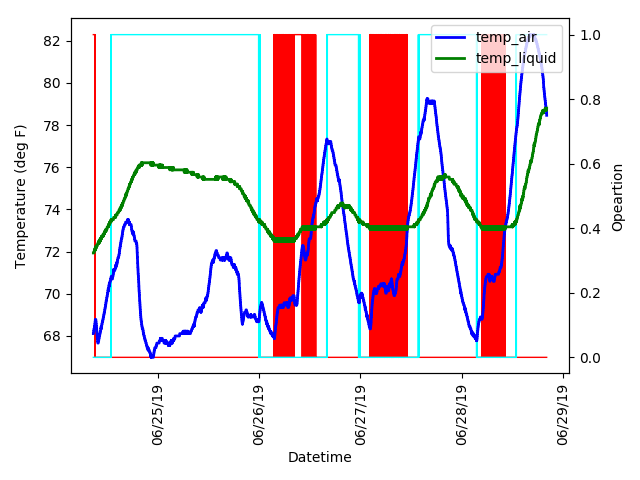
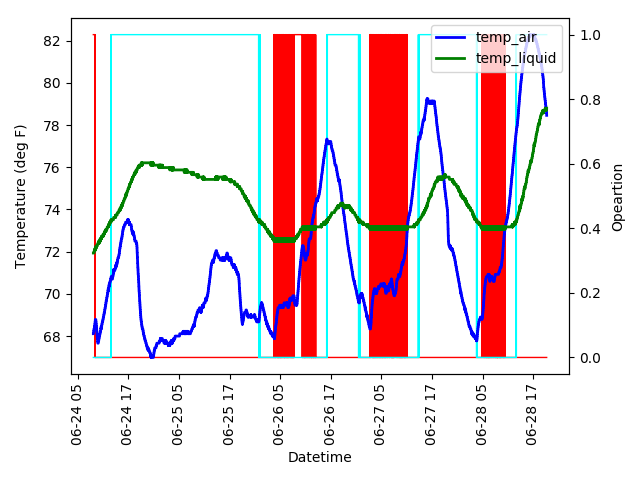
added a gui

diff --git a/gui.py b/gui.py
@@ -1,0 +1,144 @@
+from Tkinter import *
+import ttk
+import matplotlib
+from matplotlib.backends.backend_tkagg import FigureCanvasTkAgg
+from matplotlib.figure import Figure
+import plot_beer_data
+
+def save_inputs():
+	# Run parameters
+	file_name=entry_file_name.get()
+	time_inc=float(entry_time_inc.get())
+	brew_id=int(float(entry_brew_id.get()))
+	database_flag=database_state.get()
+	print str(file_name)+"\n"+str(time_inc)+"\n"+str(brew_id)+"\n"+str(database_flag)
+	return file_name, time_inc, brew_id, database_flag
+def run_main():
+	save_inputs()
+	lbl_status_r.config(fg="green",text="Running")
+	
+	# Disable the inputs while running.
+	entry_file_name.config(state="disabled")
+	entry_time_inc.config(state="disabled")
+	entry_brew_id.config(state="disabled")
+	chk_database.config(state="disabled")
+	
+	# Temperature settings
+	float(entry_temp_min.get())
+	float(entry_temp_min_tol.get())
+	float(entry_temp_max.get())
+	float(entry_temp_max_tol.get())
+	
+	print "doing some stuff..."
+def update_plot():
+	fig=plot_beer_data.csv_plot(entry_file_name.get())
+	plot_canvas=FigureCanvasTkAgg(fig, window)
+	plot_canvas.draw()
+	plot_canvas.get_tk_widget().grid(row=520,column=0,columnspan=2)
+	print("plot refreshed")
+	
+def stop_main():
+	lbl_status_r.config(fg="blue",text="Paused")
+	
+	# Enable the inputs after stoppings.
+	entry_file_name.config(state="normal")
+	entry_time_inc.config(state="normal")
+	entry_brew_id.config(state="normal")
+	chk_database.config(state="normal")
+	print "Stopping the program."
+
+# Create root object
+window=Tk()
+window.title("beerCode")
+Grid.rowconfigure(window, 0, weight=0)
+Grid.columnconfigure(window, 0, weight=1)
+
+# Header stuff and run info
+lbl_header=Label(window, text="Beer Code Inputs",font=("Arial Bold", 20))
+lbl_header.grid(column=0, row=0,columnspan=2)
+sep_run=ttk.Separator(window, orient="horizontal")
+sep_run.grid(column=0,row=1,columnspan=2,sticky="ew")
+#Grid.rowconfigure(window,0,weight=0)
+#Grid.rowconfigure(window,1,weight=0)
+
+# File name entry.
+lbl_file_name=Label(window,text="File name: ")
+lbl_file_name.grid(row=2,column=0)
+entry_file_name=Entry(window,width=30)
+entry_file_name.insert(END,"my_file_name")
+entry_file_name.grid(row=2,column=1)
+        
+# Time increment
+lbl_time_inc=Label(window,text="Time increment (s): ")
+lbl_time_inc.grid(row=3,column=0)
+entry_time_inc=Entry(window,width=30)
+entry_time_inc.insert(END,0)
+entry_time_inc.grid(row=3,column=1)
+
+# Brew id
+lbl_brew_id=Label(window,text="Brew ID: ")
+lbl_brew_id.grid(row=4,column=0)
+entry_brew_id=Entry(window,width=30)
+entry_brew_id.insert(END,0)
+entry_brew_id.grid(row=4,column=1)
+
+# Write to database
+database_state = BooleanVar()
+database_state.set(True) #set check state
+chk_database=Checkbutton(window,text='Write to database?', var=database_state)
+chk_database.grid(row=5,column=0,columnspan=2)
+
+# Temperature bounds
+sep_temp=ttk.Separator(window, orient="horizontal")
+sep_temp.grid(row=50,column=0,columnspan=2,sticky="ew")
+
+lbl_temp_min=Label(window,text="Min Temperature (F): ")
+lbl_temp_min.grid(row=60,column=0)
+entry_temp_min=Entry(window,width=15)
+entry_temp_min.insert(END,-100)
+entry_temp_min.grid(row=60,column=1)
+lbl_temp_min_tol=Label(window,text="Min Temperature Offset (F): ")
+lbl_temp_min_tol.grid(row=70,column=0)
+entry_temp_min_tol=Entry(window,width=15)
+entry_temp_min_tol.insert(END,1)
+entry_temp_min_tol.grid(row=70,column=1)
+lbl_temp_max=Label(window,text="Max Temperature (F): ")
+lbl_temp_max.grid(row=80,column=0)
+entry_temp_max=Entry(window,width=15)
+entry_temp_max.insert(END,100)
+entry_temp_max.grid(row=80,column=1)
+lbl_temp_max_tol=Label(window,text="Max Temperature Offset (F): ")
+lbl_temp_max_tol.grid(row=90,column=0)
+entry_temp_max_tol=Entry(window,width=15)
+entry_temp_max_tol.insert(END,-1)
+entry_temp_max_tol.grid(row=90,column=1)
+
+
+
+# Action buttons
+sep_buttons=ttk.Separator(window, orient="horizontal")
+sep_buttons.grid(row=100,column=0,columnspan=2,sticky="ew")
+
+btn_get_inputs=Button(window,text="Run",command=run_main)
+btn_get_inputs.grid(row=110,column=0,columnspan=2)
+btn_quit=Button(window,text="Stop",fg="red",command=stop_main)
+btn_quit.grid(row=120,column=0,columnspan=2)
+
+# Status of program
+lbl_status_r=Label(window,text="Initialized",fg="grey",font=("Arial Bold Italic", 10))
+lbl_status_r.grid(row=190,column=0,columnspan=2)
+
+# Plotting action
+sep_status=ttk.Separator(window, orient="horizontal")
+sep_status.grid(row=500,column=0,columnspan=2,sticky="ew")
+f=Figure(figsize=(1,1), dpi=100)
+plot_canvas=FigureCanvasTkAgg(f, window)
+plot_canvas.draw()
+plot_canvas.get_tk_widget().grid(row=520,column=0,columnspan=2)
+Grid.rowconfigure(window, 520, weight=1)
+
+btn_plot_beer_data=Button(window,text="Plot Beer Data",command=update_plot)
+btn_plot_beer_data.grid(row=530,column=0,columnspan=2)
+
+# Make the window
+window.mainloop()

diff --git a/plot_beer_data.py b/plot_beer_data.py
@@ -1,64 +1,67 @@
-# Reads in csv output file and creates a plot showing temperature and operational history.
+def csv_plot(file_name_in):
+	# Reads in csv output file and creates a plot showing temperature and operational history.
+	import csv
+	from datetime import datetime
+	import matplotlib.dates
+	import matplotlib.pyplot as plt
 
-import csv
-from datetime import datetime
-import matplotlib.dates
-import matplotlib.pyplot as plt
+	# Set up data
+	fileName=file_name_in
+	#fileName="SackTap_temp_report_short"
+	temp_air=[]
+	temp_liquid=[]
+	op_hot=[]
+	op_cold=[]
 
-# Set up data
-fileName='SackTap_temp_report'
-temp_air=[]
-temp_liquid=[]
-op_hot=[]
-op_cold=[]
+	# Read in data
+	line_count = 0
+	with open('./logs/'+fileName+'.csv') as csv_file:
+		csv_reader = csv.reader(csv_file, delimiter=',')
+		for row in csv_reader:
+			if line_count!=0:
+				tempTime=datetime.strptime(row[0],'%Y-%m-%d %H:%M:%S.%f')
+				if line_count==1:
+					time=[tempTime];
+				else:
+					time.append(tempTime);
+				temp_air.append(float(row[1]))
+				temp_liquid.append(float(row[2]))
+				op_hot.append(int(row[3]))
+				op_cold.append(int(row[4]))
+			line_count = line_count+1
 
-# Read in data
-line_count = 0
-with open('./logs/'+fileName+'.csv') as csv_file:
-	csv_reader = csv.reader(csv_file, delimiter=',')
-	for row in csv_reader:
-		if line_count!=0:
-			tempTime=datetime.strptime(row[0],'%Y-%m-%d %H:%M:%S.%f')
-			if line_count==1:
-				time=[tempTime];
-			else:
-				time.append(tempTime);
-			temp_air.append(float(row[1]))
-			temp_liquid.append(float(row[2]))
-			op_hot.append(int(row[3]))
-			op_cold.append(int(row[4]))
-		line_count = line_count+1
+	# Plot things
+	time = matplotlib.dates.date2num(time)
+	days = matplotlib.dates.DayLocator()
+	days_format=matplotlib.dates.DateFormatter("%D")
+	fig, ax1 = plt.subplots()
+	color = 'black'
+	ax1.set_xlabel('Datetime')
+	ax2 = ax1.twinx()  # instantiate a second axes that shares the same x-axis
 
-# Plot things
-time = matplotlib.dates.date2num(time)
-days = matplotlib.dates.DayLocator()
-days_format=matplotlib.dates.DateFormatter("%D")
-fig, ax1 = plt.subplots()
-color = 'black'
-ax1.set_xlabel('Datetime')
-ax2 = ax1.twinx()  # instantiate a second axes that shares the same x-axis
+	# Plot the second axis first, so it's hidden (operational history)
+	ax1.plot_date(time,op_hot,marker='',color='red',linewidth=1,linestyle='solid',label="op_hot")
+	ax1.plot_date(time,op_cold,marker='',color='cyan',linewidth=1,linestyle='solid',label="op_cold")
+	ax1.tick_params(axis='x',labelcolor=color,labelrotation=90)
+	ax1.tick_params(axis='y',labelcolor=color)
+	# Now plot the first axis (temperature)
+	ax2.plot_date(time,temp_air,marker='',color='blue',linewidth=2,linestyle='solid',label="temp_air")
+	ax2.plot_date(time,temp_liquid,marker='',color='green',linewidth=2,linestyle='solid',label="temp_liquid")
 
-# Plot the second axis first, so it's hidden (operational history)
-ax1.plot_date(time,op_hot,marker='',color='red',linewidth=1,linestyle='solid',label="op_hot")
-ax1.plot_date(time,op_cold,marker='',color='cyan',linewidth=1,linestyle='solid',label="op_cold")
-ax1.tick_params(axis='x',labelcolor=color,labelrotation=90)
-ax1.tick_params(axis='y',labelcolor=color)
-# Now plot the first axis (temperature)
-ax2.plot_date(time,temp_air,marker='',color='blue',linewidth=2,linestyle='solid',label="temp_air")
-ax2.plot_date(time,temp_liquid,marker='',color='green',linewidth=2,linestyle='solid',label="temp_liquid")
+	ax2.tick_params(axis='y', labelcolor=color)
+	#ax2.xaxis.set_major_locator(days)
+	#ax2.xaxis.set_major_formatter(days_format)
+	ax2.xaxis.grid()
+	plt.legend(loc=6)
 
-ax2.tick_params(axis='y', labelcolor=color)
-ax2.xaxis.set_major_locator(days)
-ax2.xaxis.set_major_formatter(days_format)
-ax2.xaxis.grid()
-plt.legend(loc=6)
+	ax1.yaxis.tick_right()
+	ax2.yaxis.tick_left()
+	ax2.set_ylabel('Opeartion',color=color,labelpad=30)
+	ax1.set_ylabel('Temperature (deg F)',color=color,labelpad=30)
 
-ax1.yaxis.tick_right()
-ax2.yaxis.tick_left()
-ax2.set_ylabel('Opeartion',color=color,labelpad=30)
-ax1.set_ylabel('Temperature (deg F)',color=color,labelpad=30)
-
-fig.tight_layout()  # otherwise the right y-label is slightly clipped
-plt.legend(loc=1)
-plt.savefig('./logs/'+fileName+'.png')
-plt.show()
+	fig.tight_layout()  # otherwise the right y-label is slightly clipped
+	plt.legend(loc=1)
+	plt.savefig('./logs/'+fileName+'.png')
+	#plt.show()
+	
+	return fig
